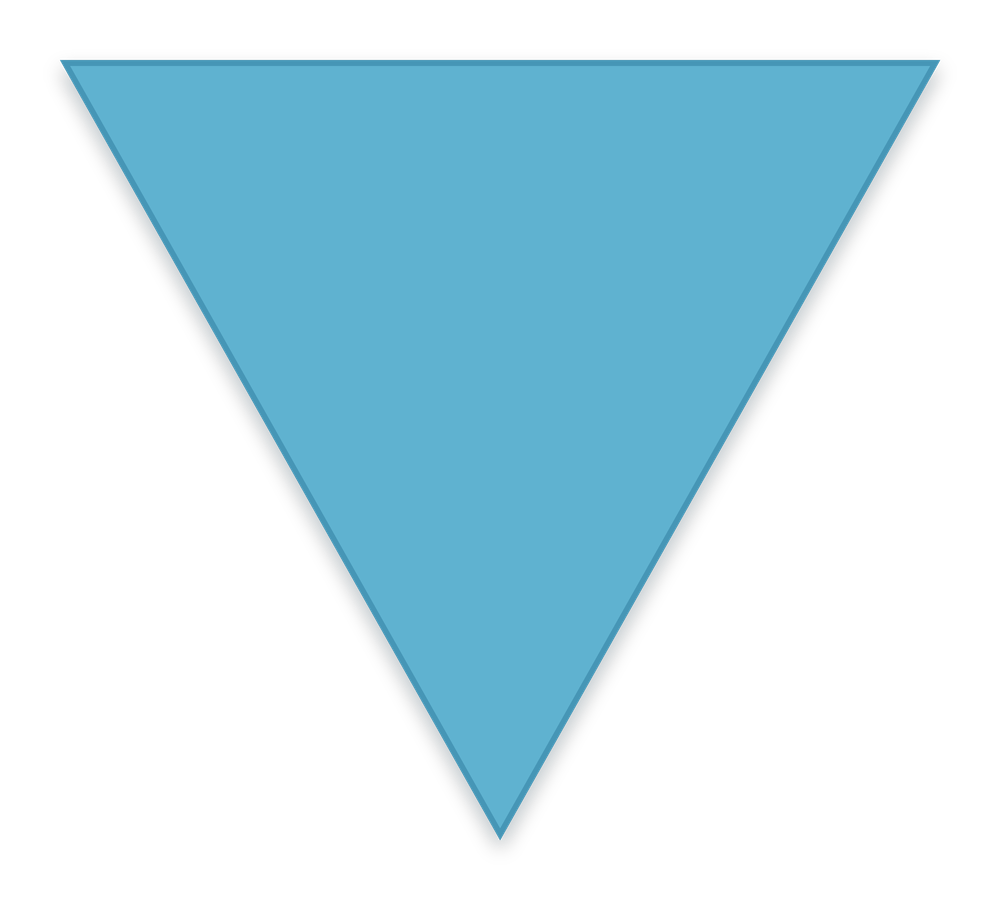
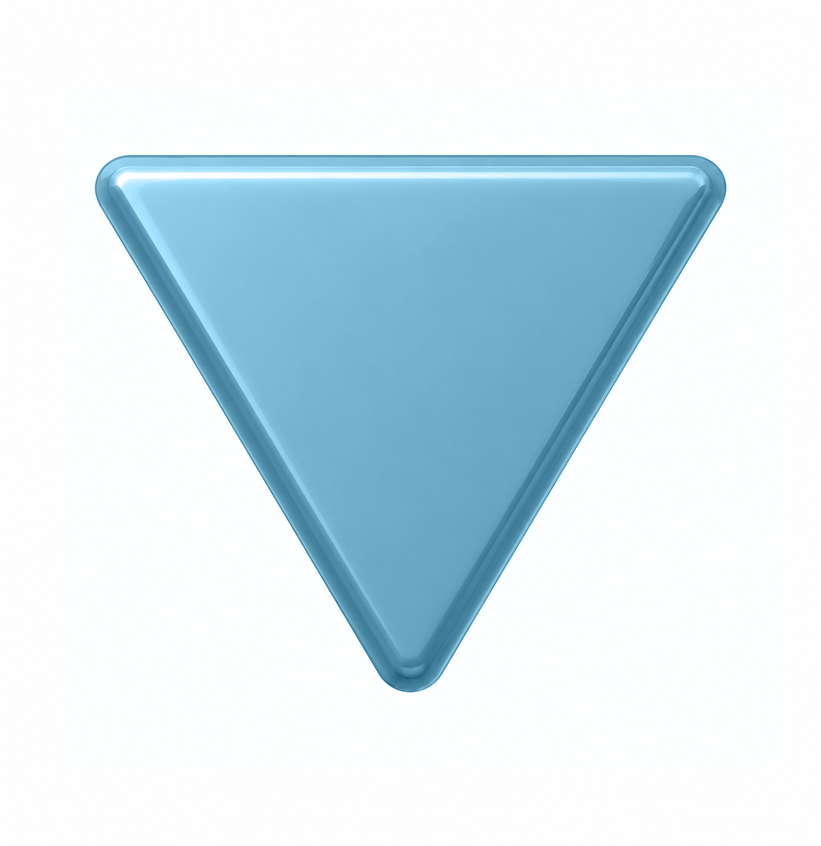
Updated

Changed region(s): [[0.0609, 0.0615, 0.944, 0.9527]]

diff --git a/frontend/src/styles.css b/frontend/src/styles.css
@@ -335,7 +335,7 @@ top: 50px;
    SEARCH + PROCESS LIST
    ============================================================ */
 .search-wrap {
-  position: relative; width: 100%; max-width: 540px; margin-bottom: 22px;
+  position: relative; width: 100%; max-width: 640px; margin-bottom: 22px;
 }
 .search-wrap input {
   width: 100%; padding: 13px 16px 13px 44px;
@@ -350,7 +350,7 @@ top: 50px;
   color: var(--text-muted); display: flex;
 }
 
-.process-list { width: 100%; max-width: 540px; display: flex; flex-direction: column; gap: 12px; }
+.process-list { width: 100%; max-width: 640px; display: flex; flex-direction: column; gap: 12px; }
 
 .process-group { display: flex; flex-direction: column; }
 .process-item {
@@ -541,7 +541,7 @@ top: 50px;
 .diagram-wrap.edit-mode .lane-rail { cursor: pointer; }
 .diagram-wrap.edit-mode .lane-rail:hover { filter: brightness(0.92); }
 .lane-rail .lane-label {
-  transform: rotate(-90deg); white-space: nowrap; font-size: 12px; font-weight: 700;
+  transform: rotate(-90deg); font-size: 12px; font-weight: 700;
   letter-spacing: 0.03em; text-align: center; line-height: 1.3;
 }
 .lane-row { position: absolute; left: 56px; right: 0; border-bottom: 1px solid var(--border); pointer-events: none; }
@@ -685,7 +685,7 @@ top: 50px;
 /* roundright (sağ yumru) — rectangle with square left corners and a fully
    rounded (pill) right side. Same asymmetric border-radius trick as delay. */
 .node.roundright {
-  border-radius: var(--r-sm) 999px 999px var(--r-sm) / var(--r-sm) 50% 50% var(--r-sm);
+  border-radius: 40px 100px 100px 40px;
   padding-right: 26px;
 }
 
@@ -1059,7 +1059,7 @@ details[open] summary::before { transform: rotate(90deg); }
   border: 1px solid var(--border);
   border-radius: var(--r-lg);
   margin-bottom: 12px;
-  overflow: hidden;
+  /* overflow: hidden; */
   box-shadow: var(--sh-xs);
 }
 

diff --git a/frontend/src/components/SectionsHub.jsx b/frontend/src/components/SectionsHub.jsx
@@ -5,6 +5,7 @@ import { api, setToken } from '../api/client.js';
 import TitleEditButton from './TitleEditButton.jsx';
 import Welcome1Img from '../assets/welcome/1.png';
 import Welcome2Img from '../assets/welcome/2.png';
+import Welcome3Img from '../assets/welcome/3.png';
 
 function fmtTime(d) {
   const h = d.getHours();
@@ -161,7 +162,7 @@ export default function SectionsHub({ onPick, onLogout }) {
 
           <div className="tile-wrap">
             <button className="section-tile" onClick={() => onPick('templates')}>
-              <div className="section-tile-icon"><TemplateTileIcon /></div>
+               <div className="section-tile-icon"><img src={Welcome1Img} /></div>
               <div className="section-tile-title">{t('hub_tmpl_title', 'Şablonlar')}</div>
               <div className="section-tile-sub">{t('hub_tmpl_sub', 'Sənəd şablonları')}</div>
             </button>